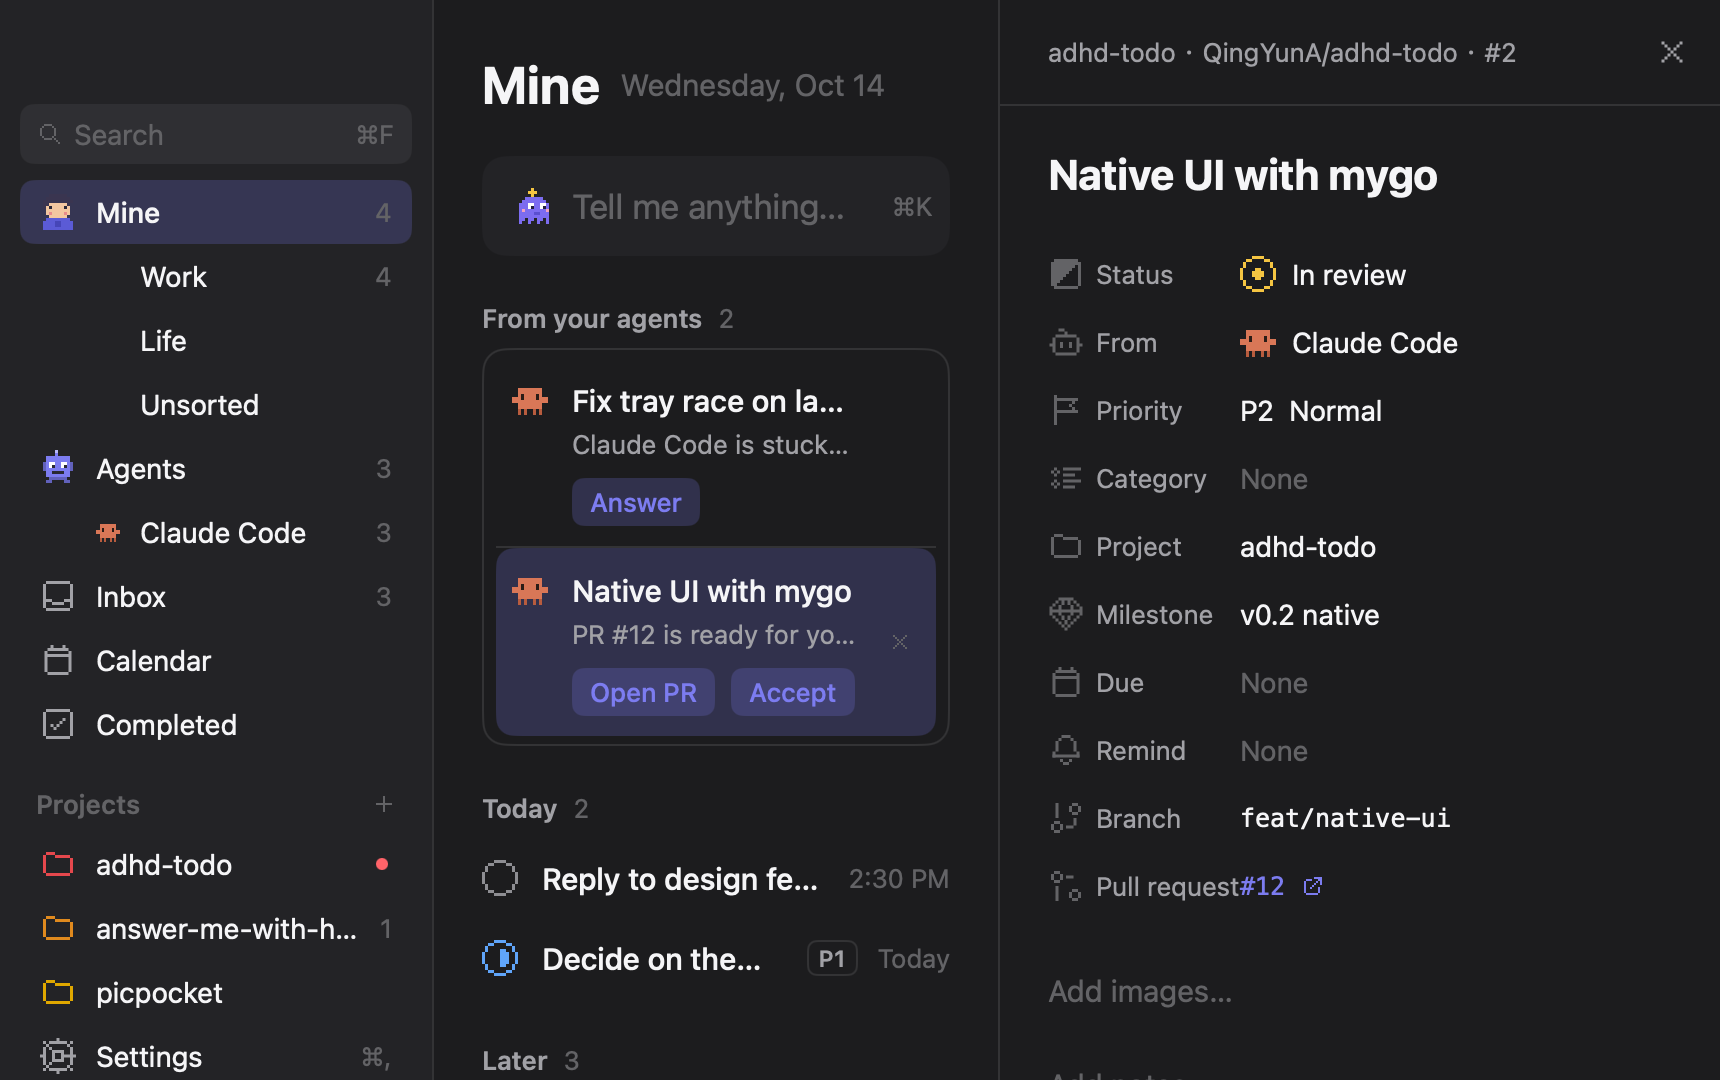
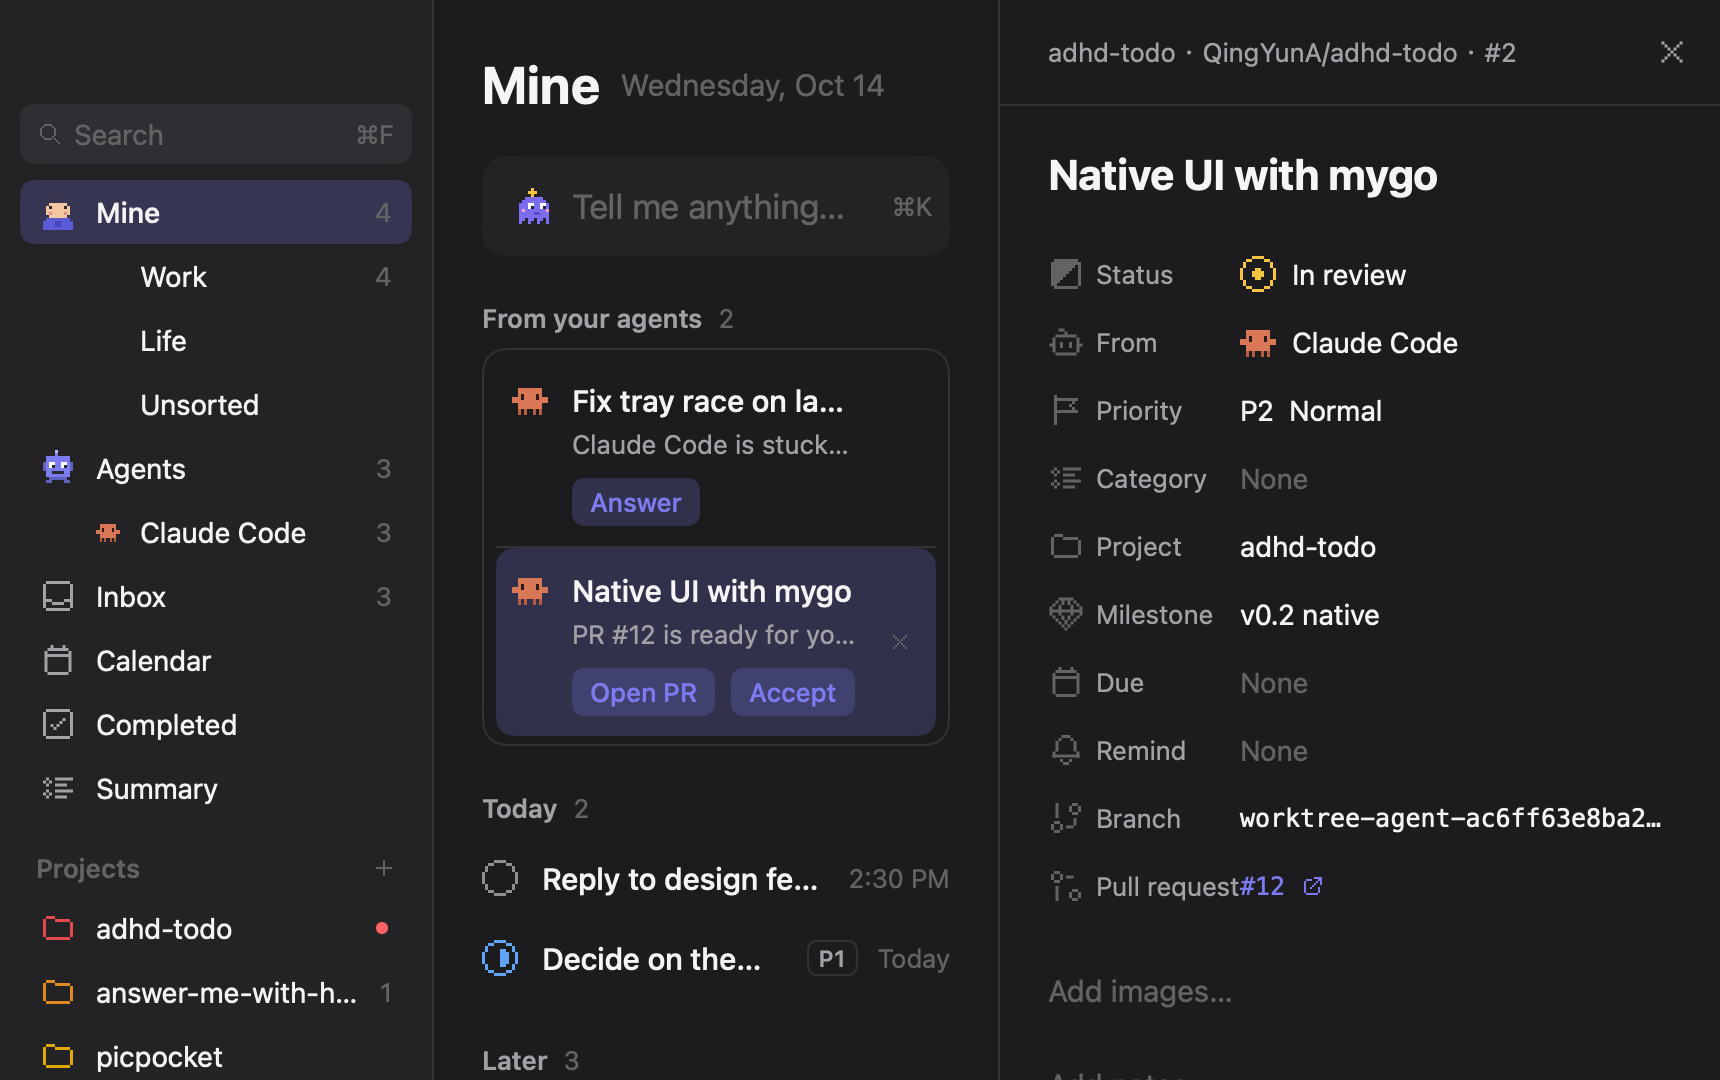
fix(app): end a Branch that does not fit in an ellipsis
The inspector's Branch was a text input, which clips mid-word where every other long value
ends in an ellipsis. While it is not edited it is now ellipsized text; a click (or Tab and
Enter) hands the field to the input. The narrow inspector screen shows a long branch.

diff --git a/app/views/fields.go b/app/views/fields.go
@@ -12,6 +12,7 @@ type field struct {
 	editing bool
 	enter   bool // Enter was pressed in the field
 	revert  bool // Esc was pressed in the field: its text went back and the page takes the keys
+	wake    bool // an ellipsized field was clicked and its input takes the keyboard as it appears
 }
 
 // fields keeps a field per name, for the task in the inspector.
@@ -37,6 +38,7 @@ type fieldSpec struct {
 	escReverts  bool // Esc puts the stored text back and leaves the field
 	secret      bool // a password field: the text is hidden
 	focus       bool // the field takes the keyboard as it appears
+	ellipsis    bool // a single line that ends in … while it is not edited; a click edits it
 	minLines    int
 	maxLines    int
 }
@@ -68,6 +70,10 @@ func textField(c *ui.Context, t *theme.Tokens, fs fields, s fieldSpec) (saved st
 	if !f.editing {
 		f.buf = s.value
 	}
+	if s.ellipsis && !s.multiline && !f.editing && !f.wake {
+		ellipsized(c, t, f, s)
+		return "", false
+	}
 	box := ui.Box(c.Key("box-" + s.name)).MinWidth(0)
 	var el ui.Element
 	box.Children(func() {
@@ -80,7 +86,7 @@ func textField(c *ui.Context, t *theme.Tokens, fs fields, s fieldSpec) (saved st
 		if s.secret && !s.multiline {
 			el.Password()
 		}
-		if s.focus {
+		if s.focus || f.wake {
 			el.AutoFocus()
 		}
 		if f.buf == "" && s.placeholder != "" {
@@ -90,7 +96,7 @@ func textField(c *ui.Context, t *theme.Tokens, fs fields, s fieldSpec) (saved st
 	focused := el.Focused()
 	blurred := f.editing && !focused
 	if focused {
-		f.editing = true
+		f.editing, f.wake = true, false
 	}
 	if (f.enter || blurred) && f.buf != s.value {
 		saved, ok = f.buf, true
@@ -100,4 +106,21 @@ func textField(c *ui.Context, t *theme.Tokens, fs fields, s fieldSpec) (saved st
 	}
 	f.enter = false
 	return saved, ok
+}
+
+// ellipsized shows a single-line field's text the way every long value reads: cut to the room it
+// has and ended with an ellipsis. A text input cannot do that, so the field is this text until it
+// is clicked (or reached with Tab and Enter), and then the input takes over.
+func ellipsized(c *ui.Context, t *theme.Tokens, f *field, s fieldSpec) {
+	btn := ui.ButtonBase(c.Key("show-" + s.name)).Label(s.label).Shrink(1).MinWidth(0).Justify(ui.Start).AlignItems(ui.Center).Cursor(ui.CursorText)
+	btn.Children(func() {
+		text, color := s.value, s.color
+		if text == "" {
+			text, color = s.placeholder, t.TextTertiary
+		}
+		theme.Text(c, s.style, color, text).Shrink(1).MinWidth(0).Ellipsis("…")
+	})
+	if btn.Clicked() {
+		f.wake = true
+	}
 }

diff --git a/app/views/main_test.go b/app/views/main_test.go
@@ -47,6 +47,36 @@ func TestInspectorSavesNotesOnBlur(t *testing.T) {
 	}
 }
 
+// A branch longer than the inspector ends in an ellipsis, as every other long value does, and
+// clicking it edits the whole name.
+func TestInspectorEllipsizesALongBranchAndEditsItOnClick(t *testing.T) {
+	const width = 860
+	tt, m, app := newMainTester(t, width)
+	long := "worktree-agent-ac6ff63e8ba29afb9-fix-the-remaining-dogfood-findings"
+	if err := app.Update(2, data.Patch{Branch: &long}); err != nil {
+		t.Fatal(err)
+	}
+	m.OpenTask(2)
+	tt.Frame()
+	r, ok := tt.Find(long)
+	if !ok {
+		t.Fatalf("the branch is not drawn as text: %q", tt.Texts())
+	}
+	if r.X+r.W > width {
+		t.Errorf("the branch runs to %.0f, past the window's %d: it is cut, not ellipsized", r.X+r.W, width)
+	}
+
+	if err := tt.Click(long); err != nil {
+		t.Fatal(err)
+	}
+	tt.Key(ui.Cmd, ui.KeyA)
+	tt.Type("feat/short")
+	tt.Key(0, ui.KeyEnter)
+	if got, _ := app.Task(2); got.Branch != "feat/short" {
+		t.Errorf("branch %q after the click and Enter", got.Branch)
+	}
+}
+
 func TestInspectorOpensThePullRequest(t *testing.T) {
 	app, _, rec := newTestApp(t)
 	m := NewMain(app)

diff --git a/app/views/screens_test.go b/app/views/screens_test.go
@@ -60,7 +60,10 @@ func TestScreensSeed(t *testing.T) {
 		})
 		mainShot(t, "inbox-"+a.suffix+".png", app, a.dark, func(tt *ui.Tester, m *Main) { m.goTo(nav{screen: screenInbox}) })
 		mainShot(t, "inspector-"+a.suffix+".png", app, a.dark, func(tt *ui.Tester, m *Main) { m.OpenTask(3) })
-		mainShot(t, "inspector-narrow-"+a.suffix+".png", app, a.dark, func(tt *ui.Tester, m *Main) {
+		longBranch, _, _ := newTestApp(t) // a branch that does not fit ends in an ellipsis
+		branch := "worktree-agent-ac6ff63e8ba29afb9-fix-the-remaining-findings"
+		_ = longBranch.Update(2, data.Patch{Branch: &branch})
+		mainShot(t, "inspector-narrow-"+a.suffix+".png", longBranch, a.dark, func(tt *ui.Tester, m *Main) {
 			tt.SetSize(860, 540)
 			m.OpenTask(2)
 		})

diff --git a/app/views/properties.go b/app/views/properties.go
@@ -147,7 +147,7 @@ func (m *Main) branchRow(c *ui.Context, t *theme.Tokens, task data.Task) {
 		box.Children(func() {
 			branch, ok := textField(c, t, m.inspector.fields, fieldSpec{
 				name: "Branch", label: m.say.FieldBranch(), value: task.Branch, style: theme.Mono, color: t.Text,
-				placeholder: m.say.ValueNone(), escReverts: true,
+				placeholder: m.say.ValueNone(), escReverts: true, ellipsis: true,
 			})
 			if ok {
 				_ = m.app.Update(task.ID, data.Patch{Branch: &branch})

diff --git a/docs/design/ui-spec.md b/docs/design/ui-spec.md
@@ -806,7 +806,7 @@ Top line (the bar with the close button, `meta` `text.secondary`): where the tas
 QingYunA/adhd-todo · #7` (the project, its repository when it has one, the task's number; `Inbox ·
 #7` for an Inbox task). A long name is ellipsized before the number. Under it: large editable title; property list (Status, **From**, Priority, **Category**, **Project**,
 Milestone, Due, Remind, Branch, Pull request) with left labels, each with its line icon, in `meta` secondary and values
-editable in place; the task's **images** (see **Task images**); Notes; `ACTIVITY` timeline newest first. Save on blur or Enter. Esc closes.
+editable in place (a Branch longer than the pane is ellipsized like every long value, and a click turns it into the editable text); the task's **images** (see **Task images**); Notes; `ACTIVITY` timeline newest first. Save on blur or Enter. Esc closes.
 
 - The **Status**, **Priority**, **Category**, **Project** and **Remind** values open the pieces of the
   **Task menu** (below) under the value, not a system menu: the status strip, the priority strip, the
